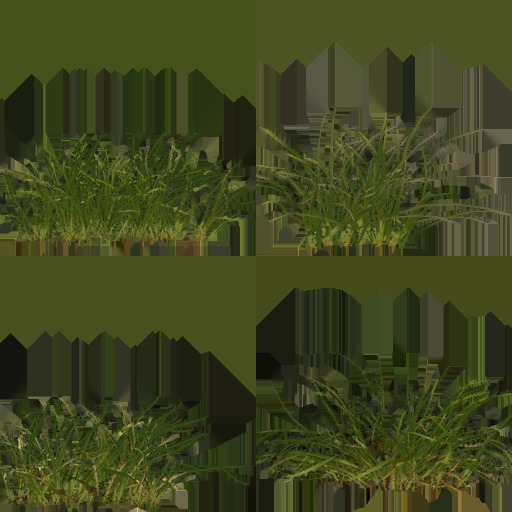
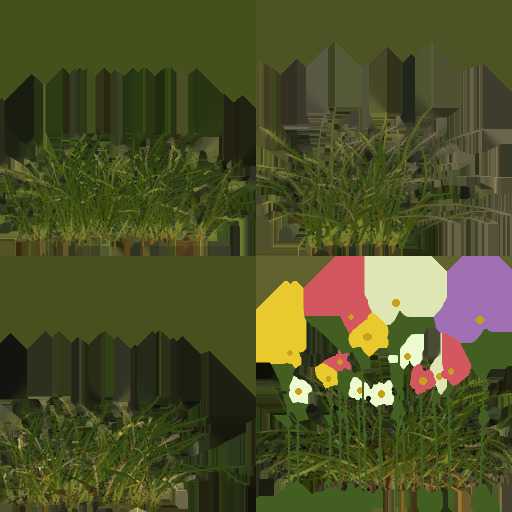
coherent wind field with travelling gusts for trees and grass, grass bends away from the player, grass styles (lawn, meadow, dry, forest) with wildflowers, contact shading

Changed region(s): [[0.5, 0.5, 1.0, 1.0], [0.7812, 0.9062, 0.9688, 1.0], [0.9375, 0.7812, 0.9688, 0.875]]

diff --git a/loophole/shaders.py b/loophole/shaders.py
@@ -107,7 +107,28 @@ vec3 sampA(float atl, float cid, vec2 uv, float lod) {{
 
 ATLAS = atlas_glsl()
 
-WORLD_VS = HEAD + CAM_U + PROJECT + """
+WIND = """
+uniform vec4 uWind;
+float gust(vec2 p, float t) {
+  vec2 d = uWind.xy;
+  float a = dot(p, d) * 0.11 - t * 1.25;
+  float b = dot(p, vec2(-d.y, d.x)) * 0.05 + t * 0.21;
+  float g = 0.5 + 0.5 * sin(a + sin(b) * 1.7);
+  g *= 0.65 + 0.35 * sin(a * 0.37 + 1.3 + b * 2.1);
+  return g * g;
+}
+vec3 windAt(vec3 p, float t, float ph) {
+  float g = gust(p.xz, t);
+  float base = uWind.z * (0.35 + 0.65 * g);
+  float flut = sin(t * 2.3 + ph) * 0.35 + sin(t * 3.7 + ph * 1.7) * 0.2;
+  vec2 lat = vec2(-uWind.y, uWind.x) * sin(t * 1.1 + ph * 0.8) * 0.3;
+  vec2 h = uWind.xy * (base * (1.0 + flut * 0.4)) + lat * uWind.z * (0.3 + g);
+  return vec3(h.x, -0.15 * dot(h, h), h.y);
+}
+"""
+
+
+WORLD_VS = HEAD + CAM_U + PROJECT + WIND + """
 attribute float aI;
 uniform float u_timer;
 uniform sampler2D uGeo;
@@ -217,9 +238,12 @@ void main() {
   if (t5.z > 4.5 && t5.z < 6.5) {
     float sw = vAO;
     vAO = 1.0;
-    float ph = w.x * 0.35 + w.z * 0.22;
-    w += vec3(sin(u_timer * 1.4 + ph), 0.0, cos(u_timer * 1.1 + ph * 1.3)) * (0.07 * sw);
-    w += vec3(sin(u_timer * 6.3 + w.y * 3.1 + w.x * 2.3), sin(u_timer * 5.1 + w.z * 2.7) * 0.6, cos(u_timer * 5.7 + w.y * 2.9)) * (0.018 * sw);
+    vec3 tree = uMP;
+    float ph = fract(sin(dot(floor(aPos * 1.2), vec3(12.9898, 78.233, 37.719))) * 43758.5453) * 6.2831;
+    vec3 wt = windAt(tree, u_timer, tree.x * 0.3 + tree.z * 0.17);
+    vec3 wc = windAt(w, u_timer * 1.6, ph);
+    w += wt * (0.22 * sw) + wc * (0.06 * sw);
+    w += vec3(sin(u_timer * 7.3 + ph * 3.0), sin(u_timer * 6.1 + ph * 2.0) * 0.6, cos(u_timer * 6.7 + ph * 2.5)) * (0.008 * sw * (0.3 + uWind.z));
   }
   vW = w;
   vN = uMX * aNrm.x + uMY * aNrm.y + uMZ * aNrm.z;
@@ -1541,7 +1565,11 @@ void main() {
 """
 
 
-GRASS_VS = HEAD + CAM_U + PROJECT + """
+GRASS_VS = HEAD + CAM_U + PROJECT + WIND + """
+uniform vec3 uPlr;
+uniform vec4 uGT;
+varying float vGust;
+varying float vDry;
 attribute vec4 aSeed;
 attribute vec3 aCorner;
 uniform float u_timer;
@@ -1565,20 +1593,29 @@ void main() {
   float d = length(base - cam);
   float fade = 1.0 - smoothstep(uGS.y * 0.6, uGS.y, d);
   float keep = step(aSeed.w, dens * uGS.z) * step(0.0, tc.x) * step(tc.x, 1.0) * step(0.0, tc.y) * step(tc.y, 1.0);
-  float sz = (0.45 + 0.4 * aSeed.z) * fade * keep * uGS.w;
+  float k = floor(fract(aSeed.w * 7.13) * 3.0);
+  if (fract(aSeed.z * 13.7 + aSeed.w * 3.1) < uGT.x) k = 3.0;
+  float sz = (0.45 + 0.4 * aSeed.z) * fade * keep * uGS.w * (k > 2.5 ? 0.85 : 1.0);
   float ang = aSeed.z * 6.2831 + aCorner.z * 1.5708;
   vec3 right = vec3(cos(ang), 0.0, sin(ang));
   vec3 p = vec3(base.x, h - 0.04, base.y) + right * aCorner.x * sz * 0.6 + vec3(0.0, aCorner.y * sz, 0.0);
   float sw = aCorner.y * aCorner.y;
-  p.xz += vec2(sin(u_timer * 1.7 + base.x * 0.5 + base.y * 0.3), cos(u_timer * 1.3 + base.y * 0.6)) * 0.07 * sw * sz;
-  float k = floor(aSeed.w * 7.13 * 4.0);
+  vec3 wv = windAt(vec3(base.x, h, base.y), u_timer, aSeed.z * 6.2831);
+  p.xz += wv.xz * 0.28 * sw * sz;
+  vec2 away = base - uPlr.xz;
+  float pd = length(away);
+  float push = (1.0 - smoothstep(0.25, 0.95, pd)) * step(abs(h - uPlr.y), 1.0);
+  p.xz += away / max(pd, 0.05) * push * 0.45 * sw * sz;
+  p.y -= push * 0.35 * sw * sz;
+  vGust = gust(base, u_timer);
+  vDry = uGT.z * (0.6 + 0.4 * fract(aSeed.x * 31.7));
   float qx = mod(k, 2.0);
   float qy = mod(floor(k / 2.0), 2.0);
   vec2 local = vec2(aCorner.x * 0.5 + 0.5, 1.0 - aCorner.y);
   vUV = uGR.xy + (vec2(qx, qy) + local) * 0.5 * uGR.zw;
   vW = p;
   vFade = fade * keep;
-  vShade = 0.55 + 0.45 * aCorner.y;
+  vShade = 0.32 + 0.68 * pow(aCorner.y, 0.6);
   gl_Position = project(p);
 }
 """
@@ -1607,6 +1644,8 @@ void gbOut(vec3 w) {
   float lo = floor(v - hi * 256.0);
   gl_FragColor = vec4(hi / 255.0, lo / 255.0, 0.4, 1.0);
 }
+varying float vDry;
+varying float vGust;
 void main() {
   gate(vW);
   if (vFade < 0.01) discard;
@@ -1620,9 +1659,10 @@ void main() {
   float h1 = fract(sin(dot(cq, vec2(12.9898, 78.233))) * 43758.5453);
   float h2 = fract(sin(dot(cq, vec2(39.346, 11.135))) * 24634.6345);
   alb *= mix(vec3(1.12, 1.02, 0.6), vec3(0.8, 0.95, 0.95), h1) * (0.78 + 0.4 * h2);
+  alb = mix(alb, vec3(dot(alb, vec3(0.5, 0.4, 0.1))) * vec3(1.35, 1.1, 0.62), vDry);
   vec3 tl = texture2D(uTLM, (vW.xz - uTLMP.xy) * uTLMP.zw).rgb;
   vec3 E = tl * tl * 4.0;
-  vec3 col = alb * E * vShade * 1.1;
+  vec3 col = alb * E * vShade * 1.1 * (1.0 + vGust * 0.22 * vShade);
   float dist = length(uCP - vW);
   if (uFog.w > 0.0) {
     float fa = (1.0 - exp(-dist * uFog.w)) * uFogS.z;

diff --git a/loophole/build.py b/loophole/build.py
@@ -594,7 +594,7 @@ TPM = {}
 LIST_NAMES = ["LNAME", "LH0", "LHN", "HAX", "HSG", "HPL", "HU0", "HU1", "HV0", "HV1", "HKILL", "HPORT", "LSX", "LSY",
               "LSZ", "LSYAW", "LSPIT", "LKILL", "LO0", "LON", "LT0", "LTN", "TNAME", "TKIND", "TARG", "TX0", "TY0",
               "TZ0", "TX1", "TY1", "TZ1", "LL0", "LLN", "LNM", "LTX", "LTY", "LTZ", "LTW", "LDDX", "LDDY", "LDDZ",
-              "LDDW", "LCR", "LCG", "LCB", "LCW", "LDYN", "LLON", "LFLK", "LCUT", "LK0", "LKN", "KH", "KU0", "KU1", "KV0", "KV1", "LVN", "LHZ", "LHA", "LEXP", "LAE", "LGR", "LGG", "LGB", "LSAT",
+              "LDDW", "LCR", "LCG", "LCB", "LCW", "LDYN", "LLON", "LFLK", "LCUT", "LWX", "LWZ", "LWS", "LK0", "LKN", "KH", "KU0", "KU1", "KV0", "KV1", "LVN", "LHZ", "LHA", "LEXP", "LAE", "LGR", "LGG", "LGB", "LSAT",
               "AMB0", "AMBNX", "AMBNY", "AMBNZ", "AMBST", "AMBOX", "AMBOY", "AMBOZ", "AMB", "LPX", "LPY", "LPZ",
               "LB0X", "LB0Y", "LB0Z", "LB1X", "LB1Y", "LB1Z", "LFY", "LCY_", "LV0", "LVNN", "VX0", "VZ0", "VX1",
               "VZ1", "VY0", "VY1", "VPW", "LSP0", "LSPN", "SPX", "SPY", "SPZ", "LSKY", "LSUN", "LTER", "TOX", "TOZ",
@@ -602,7 +602,7 @@ LIST_NAMES = ["LNAME", "LH0", "LHN", "HAX", "HSG", "HPL", "HU0", "HU1", "HV0", "
               "DPRY2", "DPRS2", "DPRT2", "DBX", "DBY", "DBZ", "DBCX", "DBCY", "DBCZ", "DSX", "DSY", "DSZ", "DKIND",
               "DPHYS", "DCARRY", "DUSE", "DSHAD", "DSOLID", "DVIS", "DX", "DY", "DZ", "DYAW", "DPITCH", "DROLL",
               "DSCALE", "DGLOW", "DGR", "DGG", "DGB", "DHR", "DHG", "DHB", "DBOB", "DLNK", "DSLIDE", "DOSP", "DSPIN", "DCOLL", "DPN", "DP0",
-              "DPSP", "DPLOOP", "DPFACE", "PWX", "PWY", "PWZ", "PLEN", "PCLOSE", "SKY", "TLMX", "TLMZ", "TLMW", "TLMD", "THX", "THZ", "THW", "THD", "THMN", "THRG", "GRX", "GRY", "GRW", "GRH", "LGRASS"]
+              "DPSP", "DPLOOP", "DPFACE", "PWX", "PWY", "PWZ", "PLEN", "PCLOSE", "SKY", "TLMX", "TLMZ", "TLMW", "TLMD", "THX", "THZ", "THW", "THD", "THMN", "THRG", "GRX", "GRY", "GRW", "GRH", "LGRASS", "GRSZ", "GRDN", "GRDRY", "GRFL"]
 
 
 def portal_blockers(L, Lv, c, rects, h0):
@@ -643,6 +643,10 @@ def portal_blockers(L, Lv, c, rects, h0):
                 for k, v in zip(("KU0", "KU1", "KV0", "KV1"), (u0, u1, v0, v1)):
                     L[k].append(r4(v))
     L["LKN"].append(len(L["KH"]) - n0)
+
+
+from .world import Level as _Lv
+Level_styles = _Lv.GRASS_STYLES
 
 
 def r4(v):
@@ -710,6 +714,10 @@ def level_lists(L, Lv, c, meta, li, models, broadcasts):
     L["LVN"].append(min(8, sum(1 for q in lts if q["vol"] > 0)))
     L["LHZ"].append(Lv.haze)
     L["LCUT"].append(r4(getattr(Lv, "cut", 0.0)))
+    wd = getattr(Lv, "wind_def", (0.94, 0.33, 0.6 if Lv.sky else 0.0))
+    L["LWX"].append(r4(wd[0]))
+    L["LWZ"].append(r4(wd[1]))
+    L["LWS"].append(r4(wd[2]))
     L["LHA"].append(Lv.haze_amb)
     L["LEXP"].append(Lv.exposure)
     L["LAE"].append(Lv.auto_exposure)
@@ -768,7 +776,7 @@ def level_lists(L, Lv, c, meta, li, models, broadcasts):
         vals = [0.0] * 21
     L["SKY"].extend(vals + [0.0] * (24 - len(vals)))
     for k in ("TLMX", "TLMZ", "TLMW", "TLMD", "THX", "THZ", "THW", "THD", "THMN", "THRG", "GRX", "GRY", "GRW", "GRH",
-              "LGRASS"):
+              "LGRASS", "GRSZ", "GRDN", "GRDRY", "GRFL"):
         L[k].append(0)
     if c.terrain is not None:
         from . import terrain as T
@@ -804,6 +812,11 @@ def level_lists(L, Lv, c, meta, li, models, broadcasts):
             L["GRW"][-1] = r4(gs / lay["PW"])
             L["GRH"][-1] = r4(gs / lay["PH"])
             L["LGRASS"][-1] = 1
+            gs_ = Level_styles[Lv.terrain_def.get("grass_style", "lawn")]
+            L["GRSZ"][-1] = r4(gs_[0])
+            L["GRDN"][-1] = r4(gs_[1] * Lv.terrain_def.get("grass", 1.0))
+            L["GRDRY"][-1] = r4(gs_[2])
+            L["GRFL"][-1] = r4(gs_[3])
     if Lv.sky and c.field is not None:
         f = c.field
         for (lo, hi) in ((np.array([f.x0 - 1, -50, f.z0 - 1]), np.array([f.x0, 200, f.z1 + 1])),

diff --git a/tools/make_foliage.py b/tools/make_foliage.py
@@ -492,8 +492,28 @@ def pine(name, seed, src, height=8.0, whorls=22):
     return m.save(name)
 
 
+def flower_cell(base, seed):
+    rng = np.random.default_rng(seed)
+    cell = base.copy()
+    W, H = cell.size
+    dr = ImageDraw.Draw(cell)
+    cols = [(236, 232, 214), (246, 206, 62), (176, 120, 214), (226, 96, 120), (250, 250, 245)]
+    for k in range(14):
+        x = rng.uniform(0.12, 0.88) * W
+        top = rng.uniform(0.18, 0.55) * H
+        dr.line([(x, H * 0.98), (x + rng.normal(0, W * 0.02), top)], fill=(78, 104, 46, 255), width=max(2, W // 160))
+        col = cols[int(rng.integers(0, len(cols)))]
+        r = W * rng.uniform(0.018, 0.03)
+        for p in range(5):
+            a = p * 2 * math.pi / 5 + rng.uniform(0, 1)
+            cx, cy = x + math.cos(a) * r, top + math.sin(a) * r
+            dr.ellipse([cx - r * 0.8, cy - r * 0.8, cx + r * 0.8, cy + r * 0.8], fill=col + (255,))
+        dr.ellipse([x - r * 0.5, top - r * 0.5, x + r * 0.5, top + r * 0.5], fill=(214, 168, 40, 255))
+    return cell
+
+
 def clump(name, seed, src, diff, alpha, picks, size=0.9, cards=4, count=1, spread=0.0, rough=0.7, tint=(1, 1, 1),
-          region=None):
+          region=None, flowers=False):
     rng = np.random.default_rng(seed)
     im = load_rgba(src, diff, alpha)
     sp = sprites(im, 6000, region=region)
@@ -514,6 +534,8 @@ def clump(name, seed, src, diff, alpha, picks, size=0.9, cards=4, count=1, sprea
         r = s.resize((max(1, int(s.size[0] * sc)), max(1, int(s.size[1] * sc))), Image.LANCZOS)
         cell = Image.new("RGBA", (cw, cw), (0, 0, 0, 0))
         cell.alpha_composite(r, ((cw - r.size[0]) // 2, cw - r.size[1]))
+        if flowers and k == n - 1:
+            cell = flower_cell(cell, seed * 31)
         al, nm, rm = rgba_to_maps(cell, rough)
         x, y = (k % 2) * cw, (k // 2) * cw
         tile[y:y + cw, x:x + cw] = al * np.array(tint)
@@ -585,7 +607,8 @@ def main():
     print("pine", pine("pine", 5, src))
     print("bush", bush("bush", 2, src))
     print("grass", clump("grass", 4, src, "grass_medium_01__Diffuse.jpg", "grass_medium_01__Alpha.png", 5, size=0.7,
-                         cards=3, count=3, spread=0.3, rough=0.75, tint=(0.95, 1.0, 0.85), region=(0.62, 1.0)))
+                         cards=3, count=3, spread=0.3, rough=0.75, tint=(0.95, 1.0, 0.85), region=(0.62, 1.0),
+                         flowers=True))
     print("fern", clump("fern", 6, src, "fern_02__Diffuse.jpg", "fern_02__Alpha.png", 0, size=1.0, cards=6, count=1,
                         rough=0.6))
 

diff --git a/loophole/world.py b/loophole/world.py
@@ -417,6 +417,12 @@ class Level:
         self.triggers.append(dict(name=name, box=_box(x0, y0, z0, x1, y1, z1), kind=1, to=0))
         return self
 
+    def wind(self, direction=(1.0, 0.35), strength=1.0):
+        d = np.array(direction, float)
+        d = d / max(np.linalg.norm(d), 1e-6)
+        self.wind_def = (float(d[0]), float(d[1]), float(strength))
+        return self
+
     def grade(self, r=1.0, g=1.0, b=1.0, saturation=1.0, exposure=None, auto_exposure=None):
         self.grade_rgb = (r, g, b)
         self.saturation = saturation
@@ -439,9 +445,15 @@ class Level:
         self.window_style = "sky"
         return self
 
-    def terrain(self, x0, z0, x1, z1, height=None, base=0.0, step=1.0, material="terrain", seed=1, hills=4.0, grass=1.0):
+    GRASS_STYLES = {"lawn": (0.75, 1.15, 0.0, 0.02), "meadow": (1.45, 1.0, 0.1, 0.12), "dry": (1.1, 0.8, 0.85, 0.02),
+                    "forest": (0.9, 0.55, 0.15, 0.04)}
+
+    def terrain(self, x0, z0, x1, z1, height=None, base=0.0, step=1.0, material="terrain", seed=1, hills=4.0, grass=1.0,
+                grass_style="lawn"):
+        if grass_style not in self.GRASS_STYLES:
+            raise ValueError(f"grass_style must be one of {', '.join(self.GRASS_STYLES)}")
         self.terrain_def = dict(x0=x0, z0=z0, x1=x1, z1=z1, height=height, base=base, step=step, material=material,
-                                seed=seed, hills=hills, flats=[], paths=[], grass=grass)
+                                seed=seed, hills=hills, flats=[], paths=[], grass=grass, grass_style=grass_style)
         return self
 
     def path(self, *points, width=2.0, material="gravel"):

diff --git a/loophole/runtime/engine.py b/loophole/runtime/engine.py
@@ -399,6 +399,8 @@ def sky_load(lv):
     set_vec4("uFogS", "world", SKY[sb + 21], SKY[sb + 22], 1, 0)
     set_vec3("uFogSun", "world", SKY[sb], SKY[sb + 1], SKY[sb + 2])
     set_vec4("uSunC", "world", SKY[sb + 3], SKY[sb + 4], SKY[sb + 5], LSUN[level])
+    set_vec4("uWind", "world", LWX[level], LWZ[level], LWS[level], 0)
+    set_vec4("uWind", "grass", LWX[level], LWZ[level], LWS[level], 0)
     set_vec3("uSkyA", "world", SKY[sb + 6] * 0.35 + SKY[sb + 10] * 0.12, SKY[sb + 7] * 0.35 + SKY[sb + 11] * 0.12, SKY[sb + 8] * 0.35 + SKY[sb + 12] * 0.12)
     set_vec4("uFog", "sky", SKY[sb + 17], SKY[sb + 18], SKY[sb + 19], SKY[sb + 20])
     set_vec4("uFogS", "sky", SKY[sb + 21], SKY[sb + 22], 1, 0)
@@ -417,7 +419,8 @@ def sky_load(lv):
     set_vec4("uTHP", "world", THX[lv], THZ[lv], THW[lv], THD[lv])
     set_vec4("uTHR", "grass", THMN[lv], THRG[lv], 0, 0)
     set_vec4("uGR", "grass", GRX[lv], GRY[lv], GRW[lv], GRH[lv])
-    set_vec4("uGS", "grass", 26, 13, 1, 1)
+    set_vec4("uGS", "grass", 26, 13, GRDN[lv], GRSZ[lv])
+    set_vec4("uGT", "grass", GRFL[lv], 0, GRDRY[lv], 0)
     set_vec4("uFog", "grass", SKY[sb + 17], SKY[sb + 18], SKY[sb + 19], SKY[sb + 20])
     set_vec4("uFogS", "grass", SKY[sb + 21], SKY[sb + 22], 1, 0)
 
@@ -1880,6 +1883,7 @@ def draw_scene(vq):
         draw_portals()
     if LGRASS[level] == 1:
         cam_u("grass")
+        set_vec3("uPlr", "grass", px, py, pz)
         set_vec4("uGB", "grass", gbm, 0, 0, 0)
         draw_list("GRASS", "grass")
     if gbm == 0:
